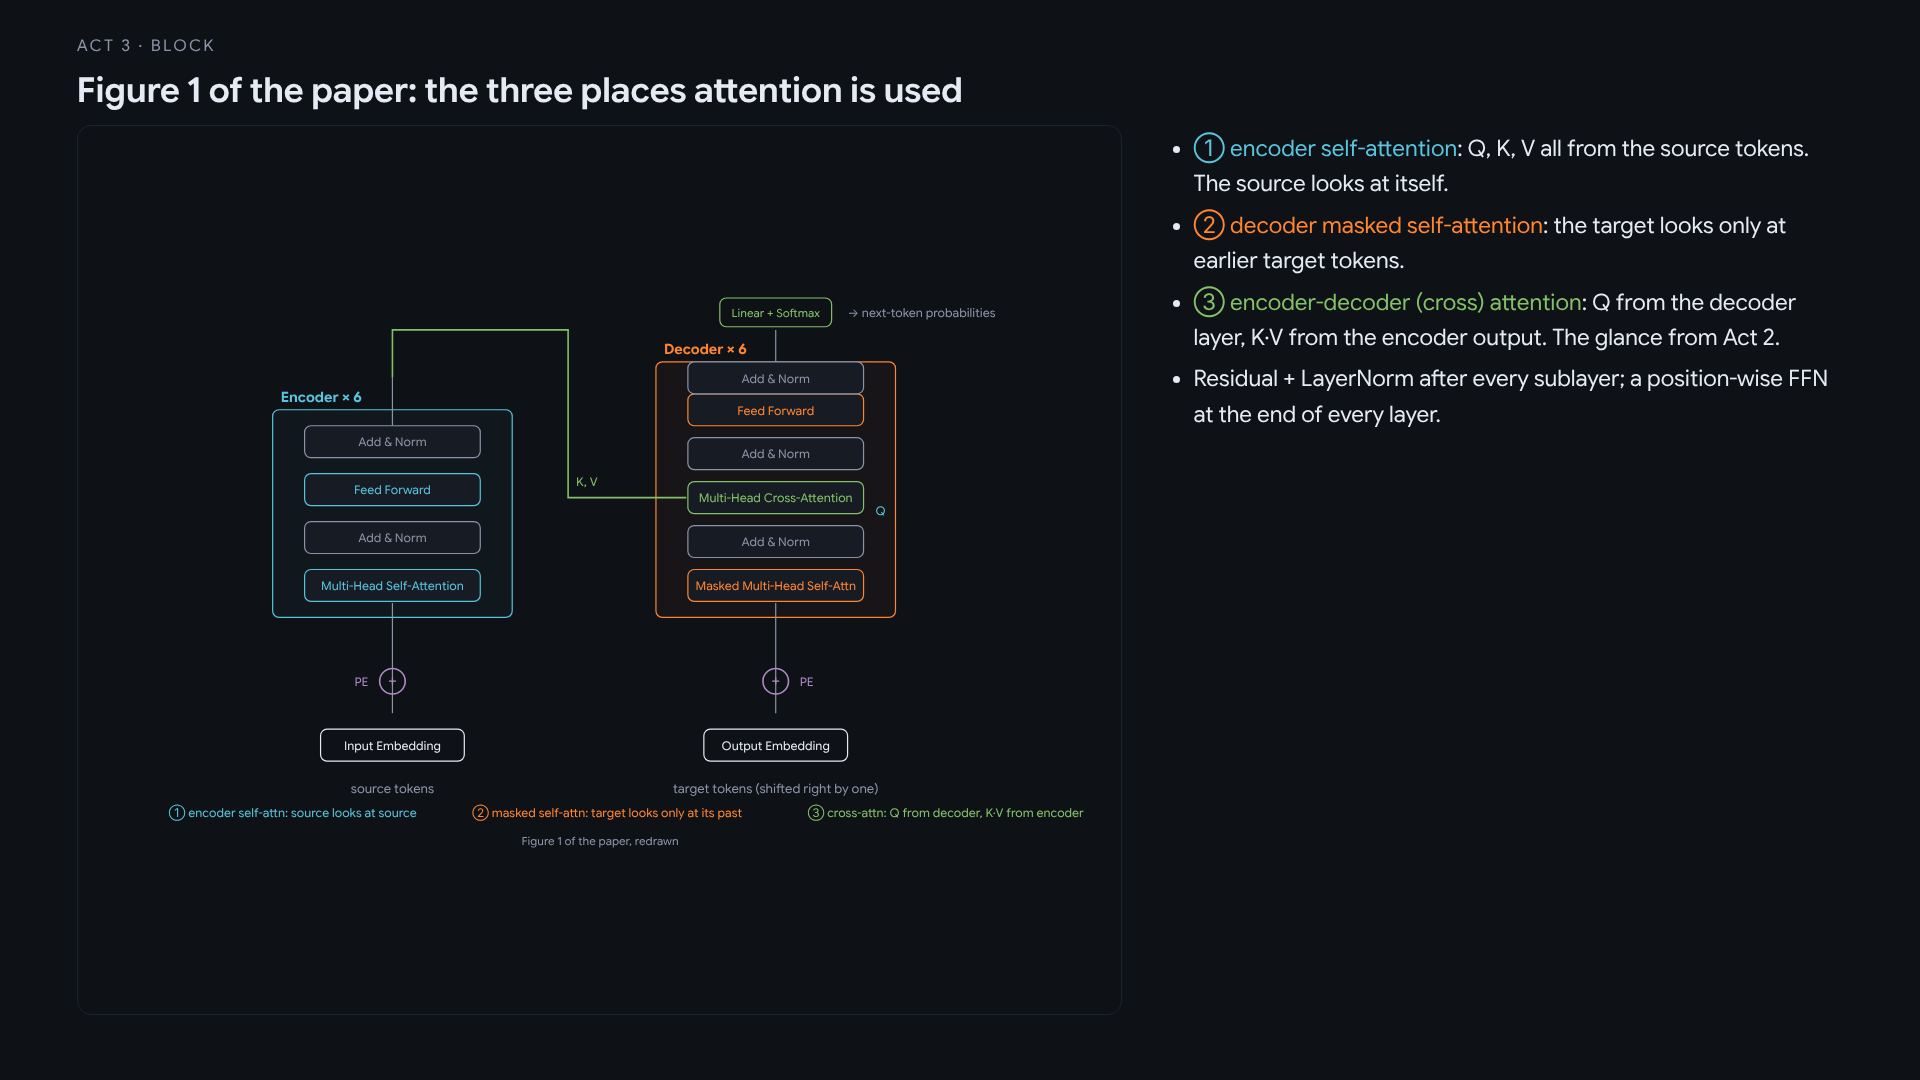
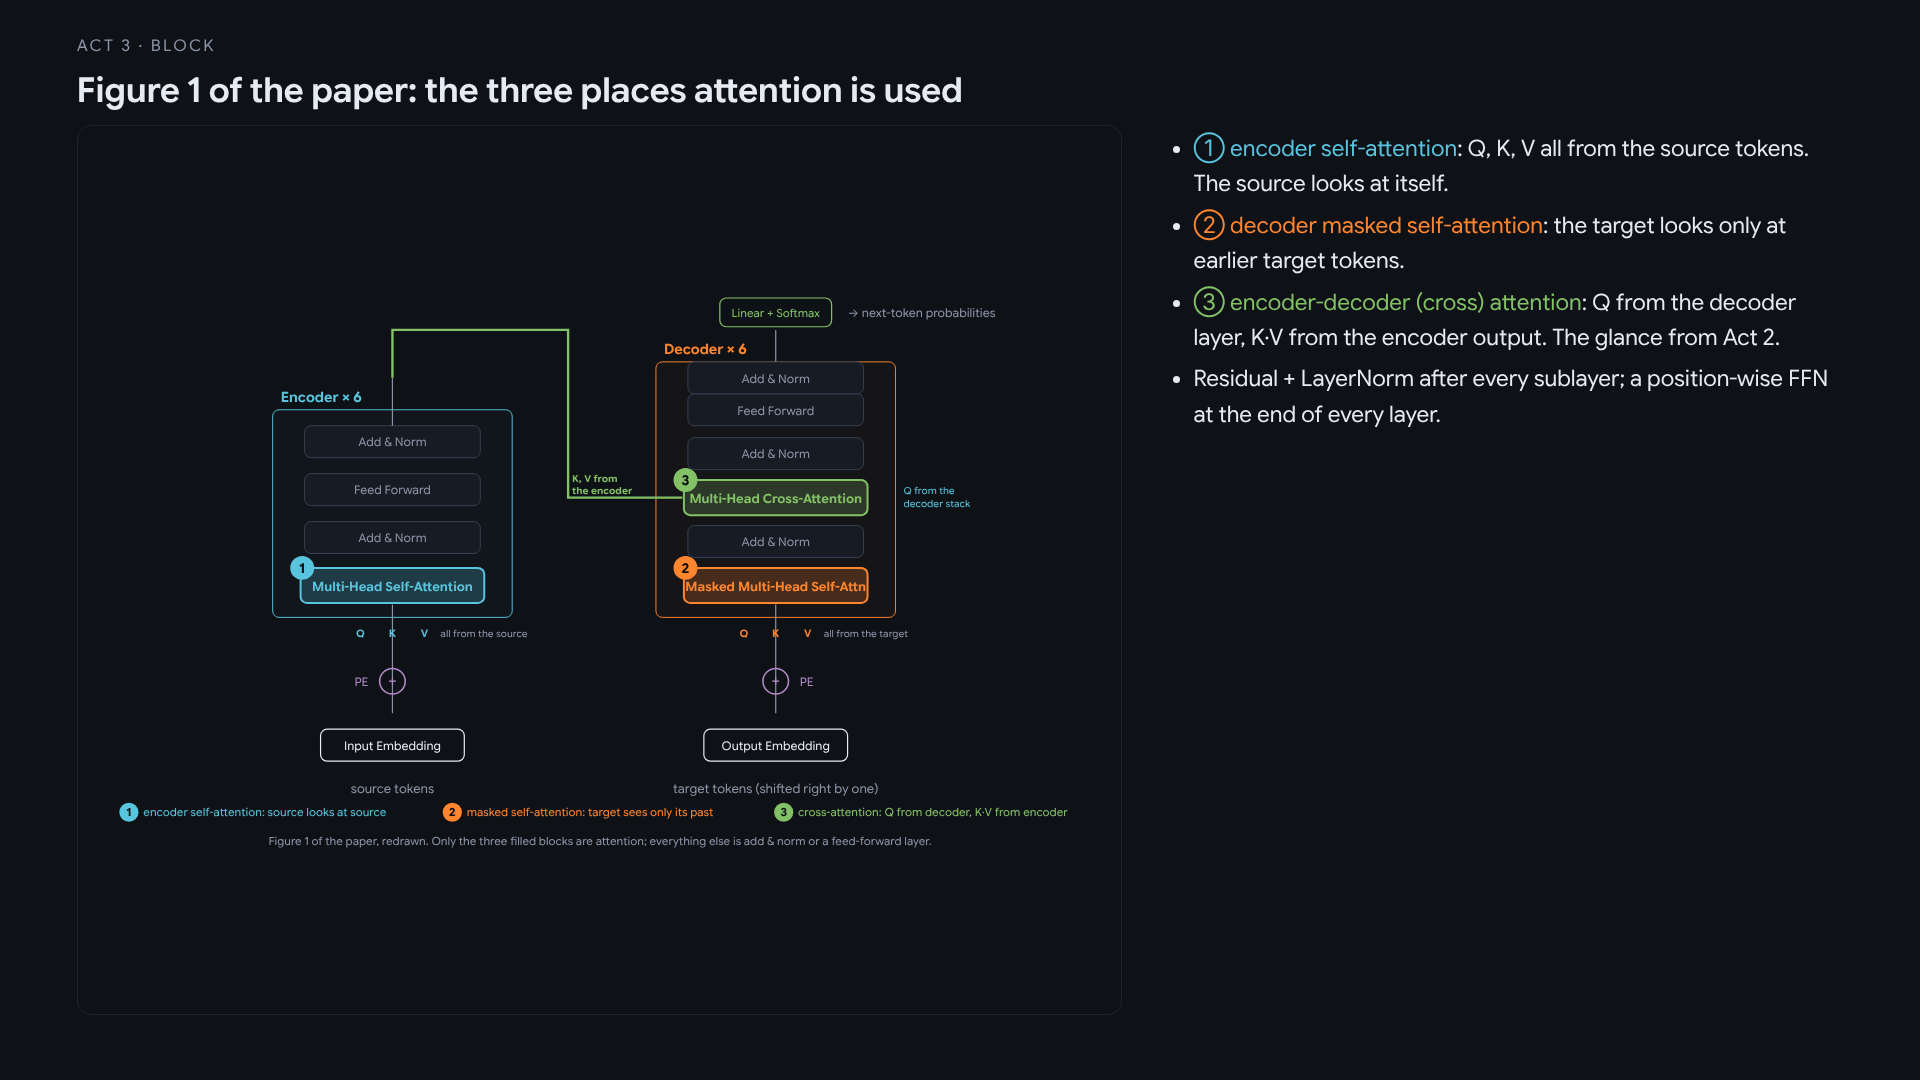
Figure 1: fill and number the three attention blocks, label their Q/K/V sources, dim the rest
Claude-Session: https://claude.ai/code/session_013P1oFAkGwojaPVzYDUZFwd

diff --git a/lecture/slides/figures.js b/lecture/slides/figures.js
@@ -111,28 +111,37 @@ FIG.fig2 = (() => {
 // ---------------------------------------------------------------- Figure 1 recreated (static)
 FIG.fig1 = (() => {
   let s = svgOpen + defs;
-  const blk = (x, y, w, label, col) => R(x - w / 2, y - 20, w, 40, { stroke: col, sw: 1.5, fill: C.panel }) + T(x, y + 6, label, { size: 15, anchor: "middle", fill: col });
-  // encoder
+  // ordinary blocks are dimmed; the three attention blocks are filled, numbered, and get Q/K/V arrows
+  const blk = (x, y, w, label) => R(x - w / 2, y - 20, w, 40, { stroke: "#3a4254", sw: 1.2, fill: C.panel }) + T(x, y + 6, label, { size: 15, anchor: "middle", fill: "#8b94a7" });
+  const hot = (x, y, w, label, col, num) => R(x - w / 2, y - 22, w, 44, { stroke: col, sw: 2.5, fill: col, extra: 'fill-opacity="0.22"' })
+    + `<circle cx="${x - w / 2 + 2}" cy="${y - 22}" r="15" fill="${col}"/>` + T(x - w / 2 + 2, y - 16, num, { size: 17, anchor: "middle", fill: C.bg, w: 700 })
+    + T(x, y + 7, label, { size: 16, anchor: "middle", fill: col, w: 650 });
+  const qkv = (x, y, labels, col) => labels.map(([dx, t]) => T(x + dx, y, t, { size: 13, anchor: "middle", fill: col, w: 650 })).join("");
   const ex = 380, dx = 860;
-  s += R(ex - 150, 160, 300, 260, { stroke: C.q, sw: 1.5, fill: "rgba(88,196,221,0.04)" }) + T(ex - 140, 150, "Encoder  × 6", { size: 18, fill: C.q, w: 650 });
-  s += blk(ex, 380, 220, "Multi-Head Self-Attention", C.q) + blk(ex, 320, 220, "Add & Norm", C.dim) + blk(ex, 260, 220, "Feed Forward", C.q) + blk(ex, 200, 220, "Add & Norm", C.dim);
-  s += L(ex, 540, ex, 402, { arrow: true }) + L(ex, 180, ex, 120, { arrow: true });
+  // encoder
+  s += R(ex - 150, 160, 300, 260, { stroke: C.q, sw: 1.2, fill: "rgba(88,196,221,0.03)" }) + T(ex - 140, 150, "Encoder  × 6", { size: 18, fill: C.q, w: 650 });
+  s += hot(ex, 380, 230, "Multi-Head Self-Attention", C.q, "1") + blk(ex, 320, 220, "Add & Norm") + blk(ex, 260, 220, "Feed Forward") + blk(ex, 200, 220, "Add & Norm");
+  s += L(ex, 540, ex, 404, { arrow: true }) + L(ex, 180, ex, 120, { arrow: true });
+  s += qkv(ex, 445, [[-40, "Q"], [0, "K"], [40, "V"]], C.q) + T(ex + 60, 445, "all from the source", { size: 12, fill: C.dim });
   s += `<circle cx="${ex}" cy="500" r="16" fill="none" stroke="${C.pos}" stroke-width="2"/>` + T(ex, 506, "+", { size: 20, anchor: "middle", fill: C.pos }) + T(ex - 30, 506, "PE", { size: 15, anchor: "end", fill: C.pos });
   s += R(ex - 90, 560, 180, 40, { stroke: C.fg }) + T(ex, 586, "Input Embedding", { size: 15, anchor: "middle" }) + T(ex, 640, "source tokens", { size: 16, anchor: "middle", fill: C.dim });
   // decoder
-  s += R(dx - 150, 100, 300, 320, { stroke: C.k, sw: 1.5, fill: "rgba(255,134,47,0.04)" }) + T(dx - 140, 90, "Decoder  × 6", { size: 18, fill: C.k, w: 650 });
-  s += blk(dx, 380, 220, "Masked Multi-Head Self-Attn", C.k) + blk(dx, 325, 220, "Add & Norm", C.dim) + blk(dx, 270, 220, "Multi-Head Cross-Attention", C.v) + blk(dx, 215, 220, "Add & Norm", C.dim) + blk(dx, 160, 220, "Feed Forward", C.k) + blk(dx, 120, 220, "Add & Norm", C.dim);
-  s += L(dx, 540, dx, 402, { arrow: true });
+  s += R(dx - 150, 100, 300, 320, { stroke: C.k, sw: 1.2, fill: "rgba(255,134,47,0.03)" }) + T(dx - 140, 90, "Decoder  × 6", { size: 18, fill: C.k, w: 650 });
+  s += hot(dx, 380, 230, "Masked Multi-Head Self-Attn", C.k, "2") + blk(dx, 325, 220, "Add & Norm") + hot(dx, 270, 230, "Multi-Head Cross-Attention", C.v, "3") + blk(dx, 215, 220, "Add & Norm") + blk(dx, 160, 220, "Feed Forward") + blk(dx, 120, 220, "Add & Norm");
+  s += L(dx, 540, dx, 404, { arrow: true });
+  s += qkv(dx, 445, [[-40, "Q"], [0, "K"], [40, "V"]], C.k) + T(dx + 60, 445, "all from the target", { size: 12, fill: C.dim });
+  s += T(dx + 160, 266, "Q from the", { size: 12, fill: C.q }) + T(dx + 160, 282, "decoder stack", { size: 12, fill: C.q });
   s += `<circle cx="${dx}" cy="500" r="16" fill="none" stroke="${C.pos}" stroke-width="2"/>` + T(dx, 506, "+", { size: 20, anchor: "middle", fill: C.pos }) + T(dx + 30, 506, "PE", { size: 15, fill: C.pos });
   s += R(dx - 90, 560, 180, 40, { stroke: C.fg }) + T(dx, 586, "Output Embedding", { size: 15, anchor: "middle" }) + T(dx, 640, "target tokens (shifted right by one)", { size: 16, anchor: "middle", fill: C.dim });
-  // cross arrows encoder -> decoder cross-attn
-  s += `<path d="M ${ex} 120 L ${ex} 60 L ${dx - 260} 60 L ${dx - 260} 270 L ${dx - 112} 270" fill="none" stroke="${C.v}" stroke-width="2" marker-end="url(#arr)"/>` + T(dx - 250, 255, "K, V", { size: 15, fill: C.v });
-  s += T(dx + 125, 292, "Q", { size: 15, fill: C.q });
+  // encoder output -> cross-attention K, V
+  s += `<path d="M ${ex} 120 L ${ex} 60 L ${dx - 260} 60 L ${dx - 260} 270 L ${dx - 117} 270" fill="none" stroke="${C.v}" stroke-width="3" marker-end="url(#arr)"/>`;
+  s += T(dx - 255, 250, "K, V from", { size: 12, fill: C.v, w: 650 }) + T(dx - 255, 265, "the encoder", { size: 12, fill: C.v, w: 650 });
   // output
   s += L(dx, 100, dx, 60, { arrow: true }) + R(dx - 70, 20, 140, 36, { stroke: C.v }) + T(dx, 44, "Linear + Softmax", { size: 14, anchor: "middle", fill: C.v }) + T(dx + 90, 44, "→ next-token probabilities", { size: 15, fill: C.dim });
-  // legend of the three attentions
-  s += T(100, 670, "① encoder self-attn: source looks at source", { size: 15, fill: C.q }) + T(480, 670, "② masked self-attn: target looks only at its past", { size: 15, fill: C.k }) + T(900, 670, "③ cross-attn: Q from decoder, K·V from encoder", { size: 15, fill: C.v });
-  s += T(640, 705, "Figure 1 of the paper, redrawn", { size: 14, anchor: "middle", fill: C.dim });
+  // legend
+  const badge = (x, col, num, txt) => `<circle cx="${x}" cy="664" r="12" fill="${col}"/>` + T(x, 669, num, { size: 14, anchor: "middle", fill: C.bg, w: 700 }) + T(x + 18, 669, txt, { size: 14, fill: col });
+  s += badge(50, C.q, "1", "encoder self-attention: source looks at source") + badge(455, C.k, "2", "masked self-attention: target sees only its past") + badge(870, C.v, "3", "cross-attention: Q from decoder, K·V from encoder");
+  s += T(640, 705, "Figure 1 of the paper, redrawn. Only the three filled blocks are attention; everything else is add & norm or a feed-forward layer.", { size: 14, anchor: "middle", fill: C.dim });
   return s + "</svg>";
 })();
 
